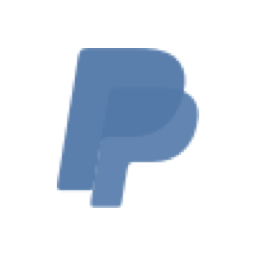
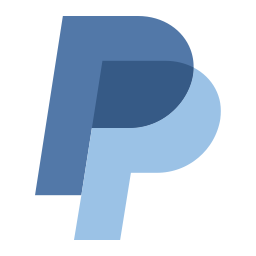
Rebuild PayPal from official vector with larger layered blue mark

diff --git a/README.md b/README.md
@@ -2,14 +2,14 @@
 
 适用于 Surge 的统一配色图标，共 **50 个**。当前使用 **A 方案 · 柔和蓝 `#5278A8`**，兼顾深色与浅色界面的辨识度。
 
-- **服务 logo**：透明背景，保留原标识轮廓与比例，统一柔和蓝，不添加底框或描边。
+- **服务 logo**：透明背景，保留原标识轮廓与比例，以柔和蓝为主色，不添加底框或描边；PayPal 使用同色系深浅蓝区分双 P 的重叠层次。
 - **地区字母图标**：底牌统一为 A 方案柔和蓝，保留白字。新加坡沿用 v3 的形状、字形与大小，仅更新底牌配色。
 
 ## 深浅主题预览
 
 同一 PNG 分别放在浅色与深色背景中展示。
 
-![深浅主题全套预览](Preview/all-icons-blue-a-v5.png)
+![深浅主题全套预览](Preview/all-icons-blue-a-v6.png)
 
 ## 本次更新 · 2026-11-03
 
@@ -17,6 +17,7 @@
 - **AlipayHK**：去掉英文名称，仅保留官方“支”字图形并放大，无底板。
 - **Dreamina**：去掉名称，仅保留原图形标识并放大。
 - **Bybit**：新增独立 `Bybit.png`，使用完整官方 BYBIT 字标，移除宣传语，缩减外围留白；保留单行完整字标，不裁切、不拉伸。策略组映射已从 `Blinkload_B.png` 改为 `Bybit.png`；旧文件继续保留，兼容其他引用。
+- **PayPal**：基于官方矢量重新制作，图形高度从 160 px 增至 224 px；使用柔和蓝、浅蓝与深蓝区分双 P 及重叠部分，保持透明背景。
 - **Spotify、ChatGPT**：等比例放大约 38%；**Speedtest** 放大约 25%。
 - **Netflix、Disney+、YouTube**：改为 N、D 与播放图形，移除完整名称并放大。为兼容已有配置，保留 `Netflix_Letter.png`、`Disney+.png`、`YouTube_Letter.png` 文件名。
 - **Wirex**：移除名称，仅保留 W 图形并放大。
